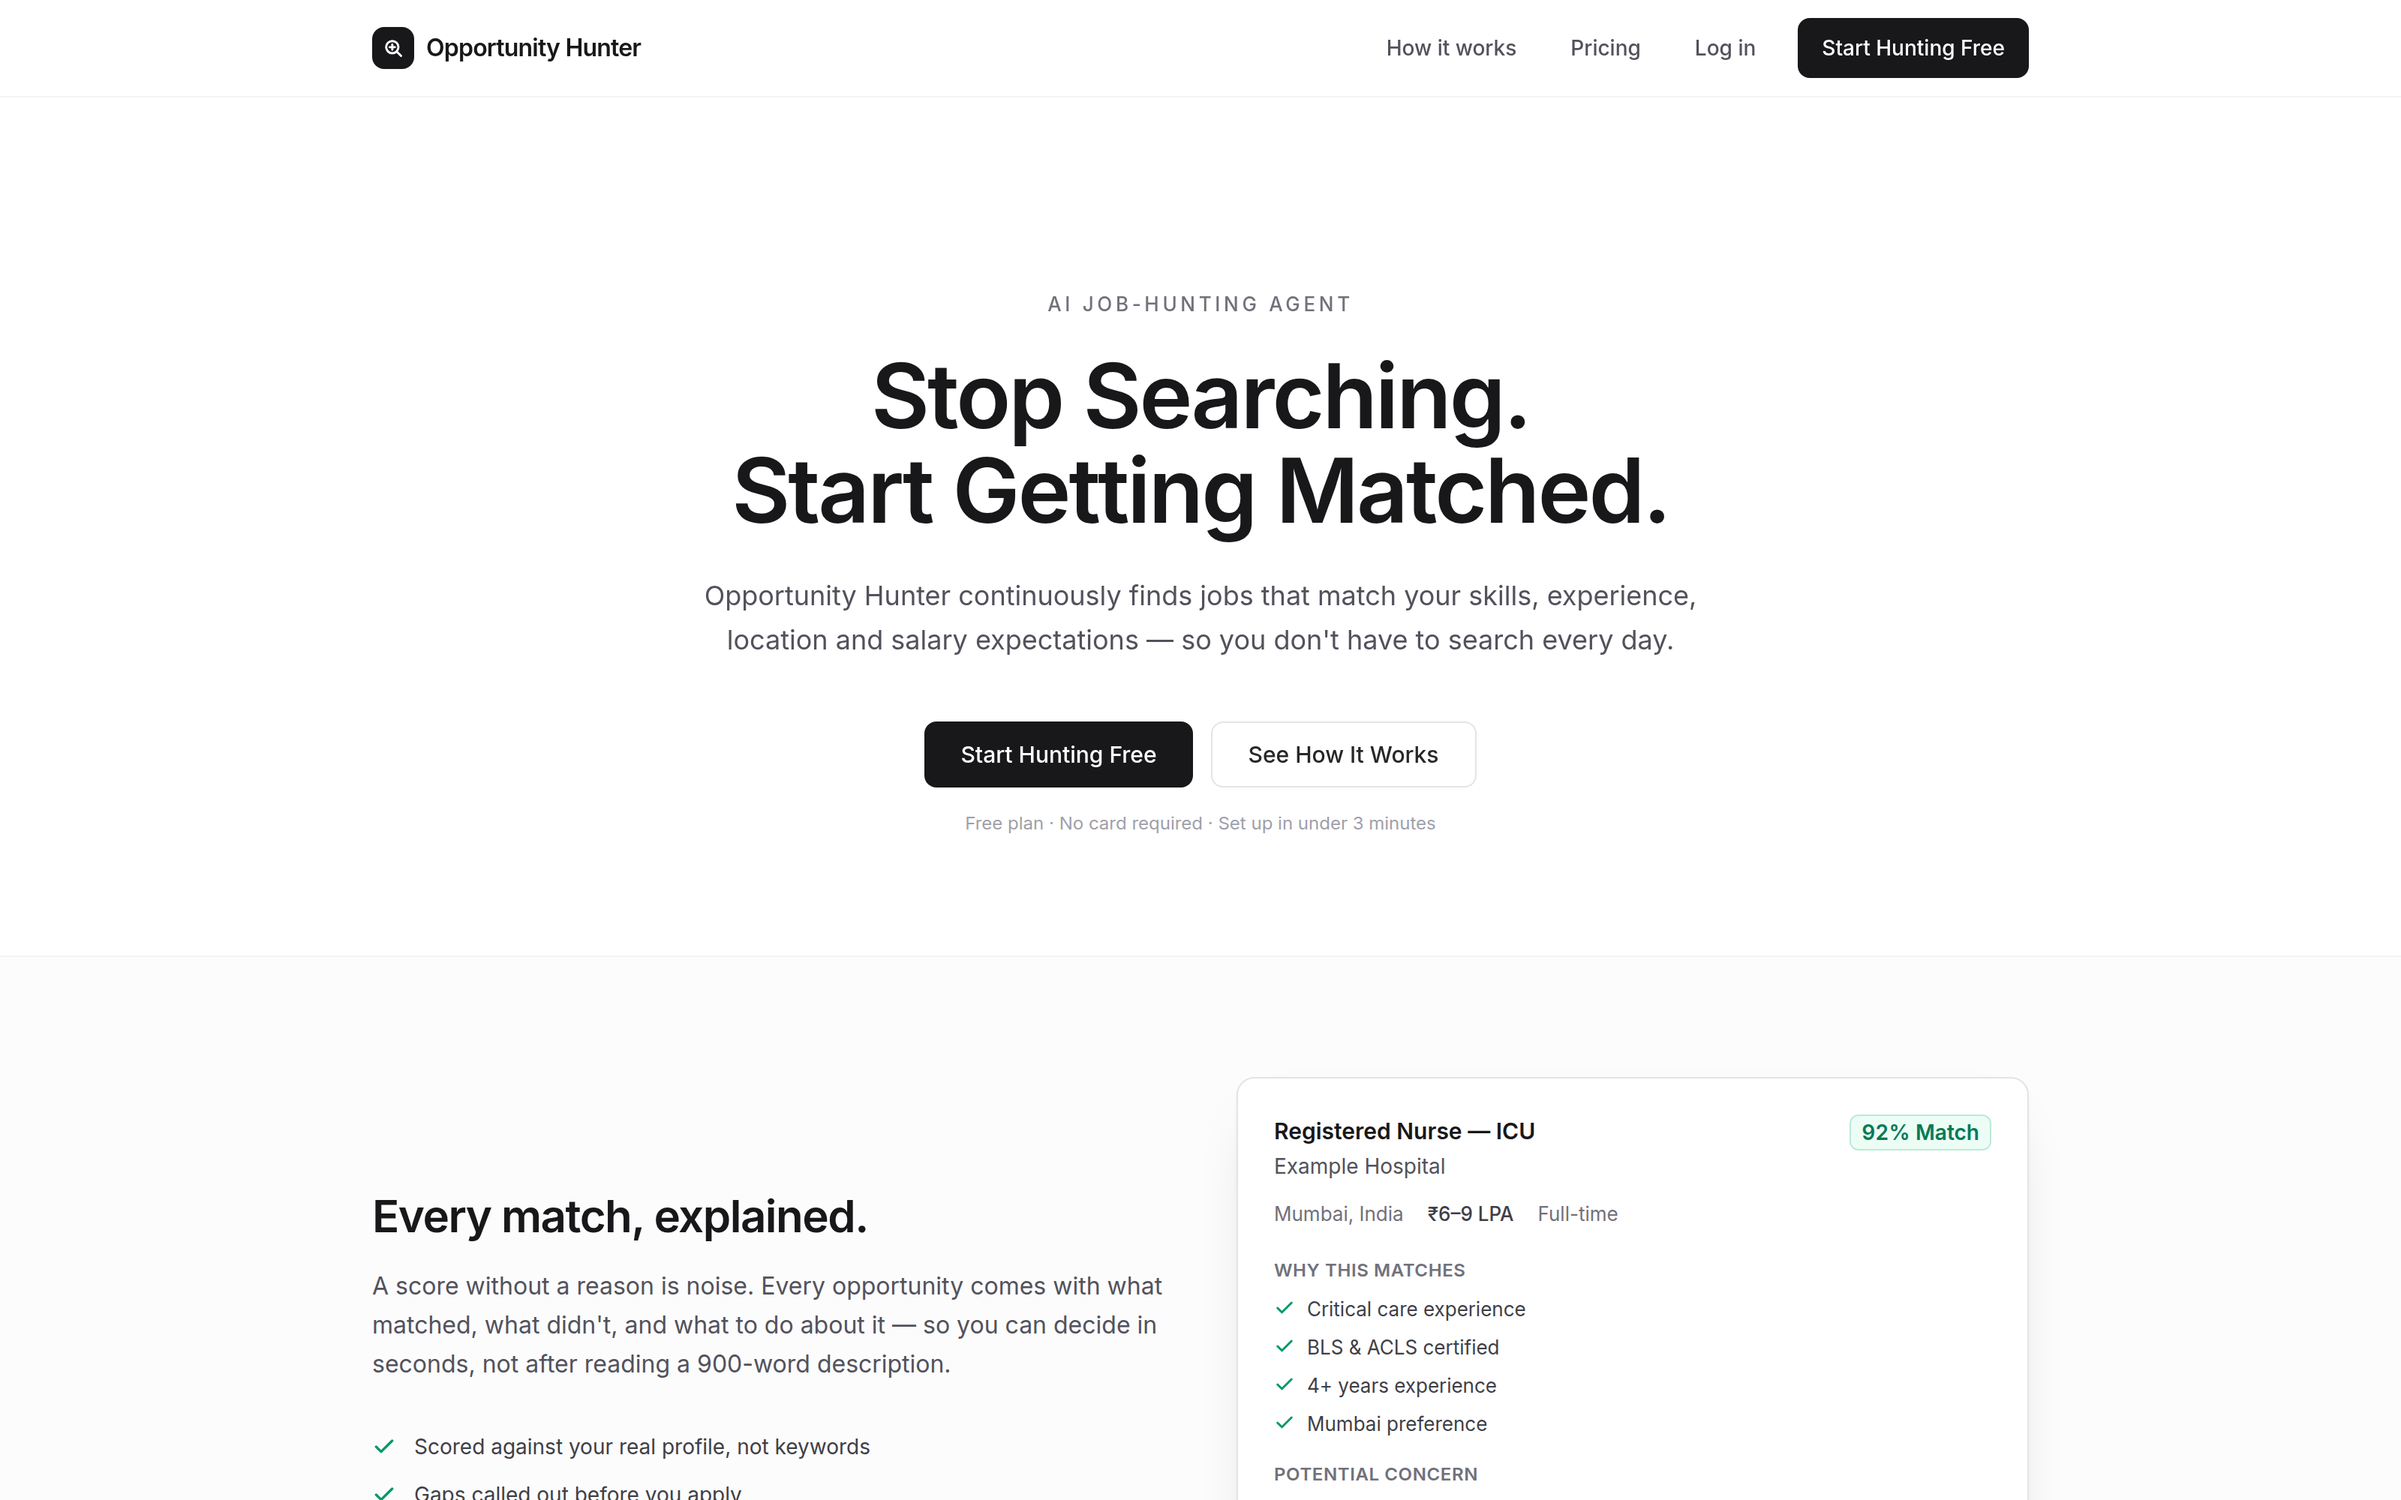
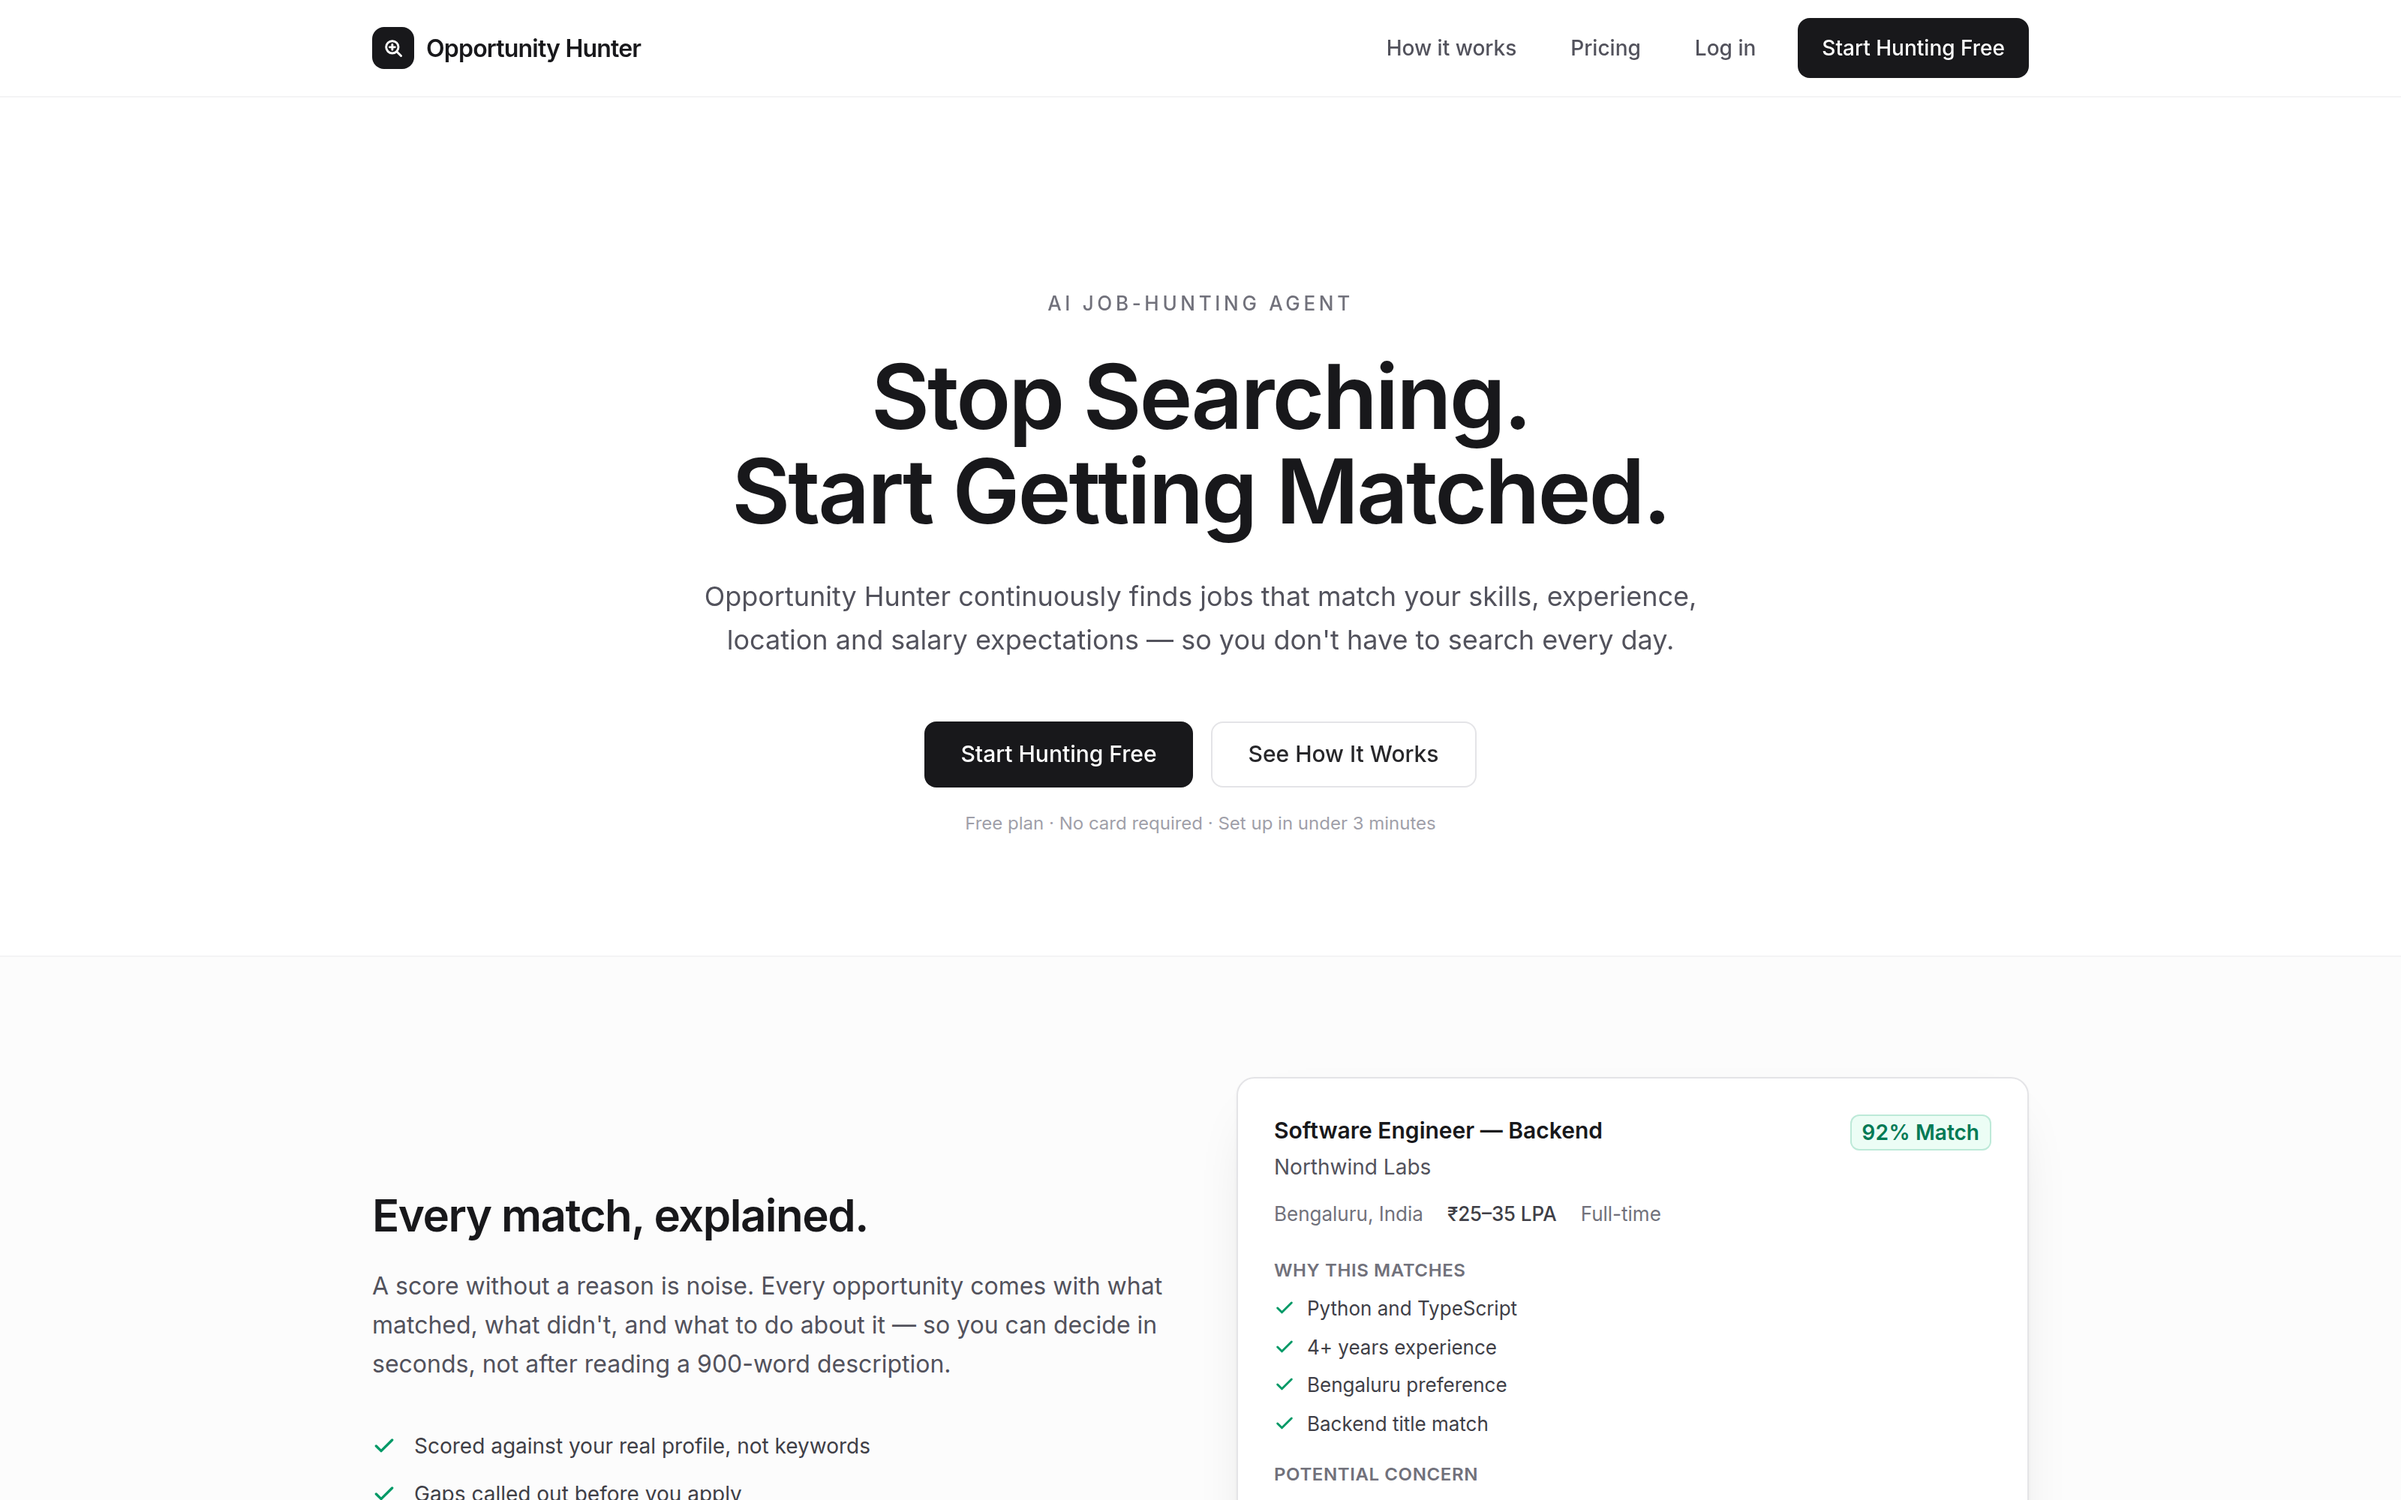
Replace Opportunity Hunter still with the live software-engineer landing (#5)
Production now ships the backend engineer match card. The portfolio image
was still the old Registered Nurse example.

diff --git a/index.html b/index.html
@@ -92,7 +92,7 @@
 
         <article class="project">
           <a class="shot" href="https://opportunityhunter.xyz" target="_blank" rel="noopener">
-            <img src="./assets/img/opportunity-hunter.png" alt="Opportunity Hunter landing page: Stop Searching. Start Getting Matched, with an explained 92 match score card" width="1600" height="1000" decoding="async" fetchpriority="high">
+            <img src="./assets/img/opportunity-hunter.png" alt="Opportunity Hunter landing page: Stop Searching. Start Getting Matched, with a Software Engineer — Backend match card at 92" width="1600" height="1000" decoding="async" fetchpriority="high">
           </a>
           <div class="project-body">
             <div class="meta">
